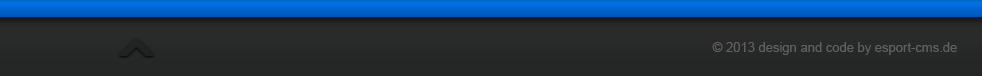
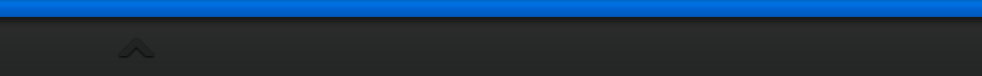
Set version to 0.5.0 - this will be Alpha I

Changed region(s): [[0.7026, 0.5526, 0.9776, 0.6842]]

diff --git a/public/backend.css b/public/backend.css
@@ -55,9 +55,9 @@ select { margin: 0px; padding: 0px 10px; border: 1px solid #CCC; border-radius: 
 .page { }
 .form-head { display: block; height: 60px; line-height: 60px; margin-bottom: 20px; padding-left: 15px; background-image: url(theme/backend/form_head.png); font-size: 14px; font-weight: bold !important; color: #666666 !important; }
 .form-head img { margin-right: 10px; vertical-align: text-top; }
-.page h2 { height: 30px; line-height: 30px; margin: 20px 0px; padding: 0px 10px; border: 1px solid #EFEFEF; background-image: url(theme/bg_textbox.png); background-repeat: repeat-x; font-size: 13px }
 
 h1.page-title { }
+h2.section { height: 30px; line-height: 30px; margin: 20px 0px; padding: 0px 10px; border: 1px solid #EFEFEF; background-image: url(theme/bg_textbox.png); background-repeat: repeat-x; font-size: 13px }
 
 /* Message */
 .ui-message { margin-bottom: 10px; padding: 5px; border: 1px solid #E7E7E7; background-image: url(theme/backend/bg_message.png); background-repeat: repeat-x; }
@@ -179,7 +179,9 @@ ul.pagination li.disabled { display: none }
 .page-dashboard .widgets-row td { overflow: hidden; white-space: nowrap; text-overflow: ellipsis; }
 .page-dashboard .widgets-row th:first-child { width: 70% }
 .page-dashboard .feed-messages { float: left; margin-top: 20px }
+.page-dashboard .feed-messages table { width: 100%; table-layout: fixed; }
 .page-dashboard .feed-messages th:nth-child(2) { width: 100px }
+.page-dashboard .feed-messages td { overflow: hidden; white-space: nowrap; text-overflow: ellipsis; }
 .page-dashboard .feed-messages img { vertical-align: text-bottom; }
 
 /*
@@ -240,10 +242,9 @@ body { font-family: 'Open Sans', Arial; font-size: 13px; color: #666; background
 .submenu .item:last-child { background-image: url(theme/backend/nav_item_bot.png); height: 49px; line-height: 42px; }
 .submenu .item:last-child img { top: 13px }
 .menu-bottom { background-image: url(theme/backend/menu_bottom.png); height: 17px }
-.applemenu { /*dont remove this class*/ }
-.applemenu div.submenu { /*DIV that contains each sub menu*/ /*dont remove this class*/ }
 
 #main-content { width: 686px; margin-left: 275px; }
 
 #footer { position: relative; width: 982px; height: 76px; margin-left: 2px; background-image: url(theme/backend/footer.png); }
 #footer a { display: block; position: absolute; background-image: url(theme/empty.png); left: 114px; top: 30px; width: 45px; height: 35px }
+#footer span { position: absolute; right: 20px; top: 40px; color: #444; /* text-shadow: 0px 1px 2px black; */ }

diff --git a/contentify/controllers/InstallController.php b/contentify/controllers/InstallController.php
@@ -434,7 +434,8 @@ class InstallController extends Controller {
             'text'          => 'Imprint Page Text',
             'published'     => true,
             'creator_id'    => 1,
-            'pagecat_id'    => 2]);
+            'pagecat_id'    => 2
+        ]);
 
         DB::table('teamcats')->insert([
             ['id' => '1', 'title' => 'Staff'],

diff --git a/app/modules/dashboard/controllers/AdminDashboardController.php b/app/modules/dashboard/controllers/AdminDashboardController.php
@@ -46,7 +46,7 @@ class AdminDashboardController extends BackController {
 
             $view = View::make('dashboard::feed', compact('messages'))->render();
 
-            Cache::put($key, $view, 60 * 12);
+            Cache::put($key, $view, 60 * 6);
         }        
 
         return $view;

diff --git a/app/views/backend/layout_main.blade.php b/app/views/backend/layout_main.blade.php
@@ -163,6 +163,7 @@
         </section>
         <footer id="footer">
             <a href="#" title="{{ trans('app.top') }}"><!-- empty --></a>
+            <span>&copy; 2009-{{ date('Y') }} design and code by contentify.it
         </footer>
     </section>
 </body>

diff --git a/app/config/app.php b/app/config/app.php
@@ -35,7 +35,7 @@ return array(
     |
     */
 
-    'version' => '0.1.0',
+    'version' => '0.5.0',
 
     /*
     |--------------------------------------------------------------------------
